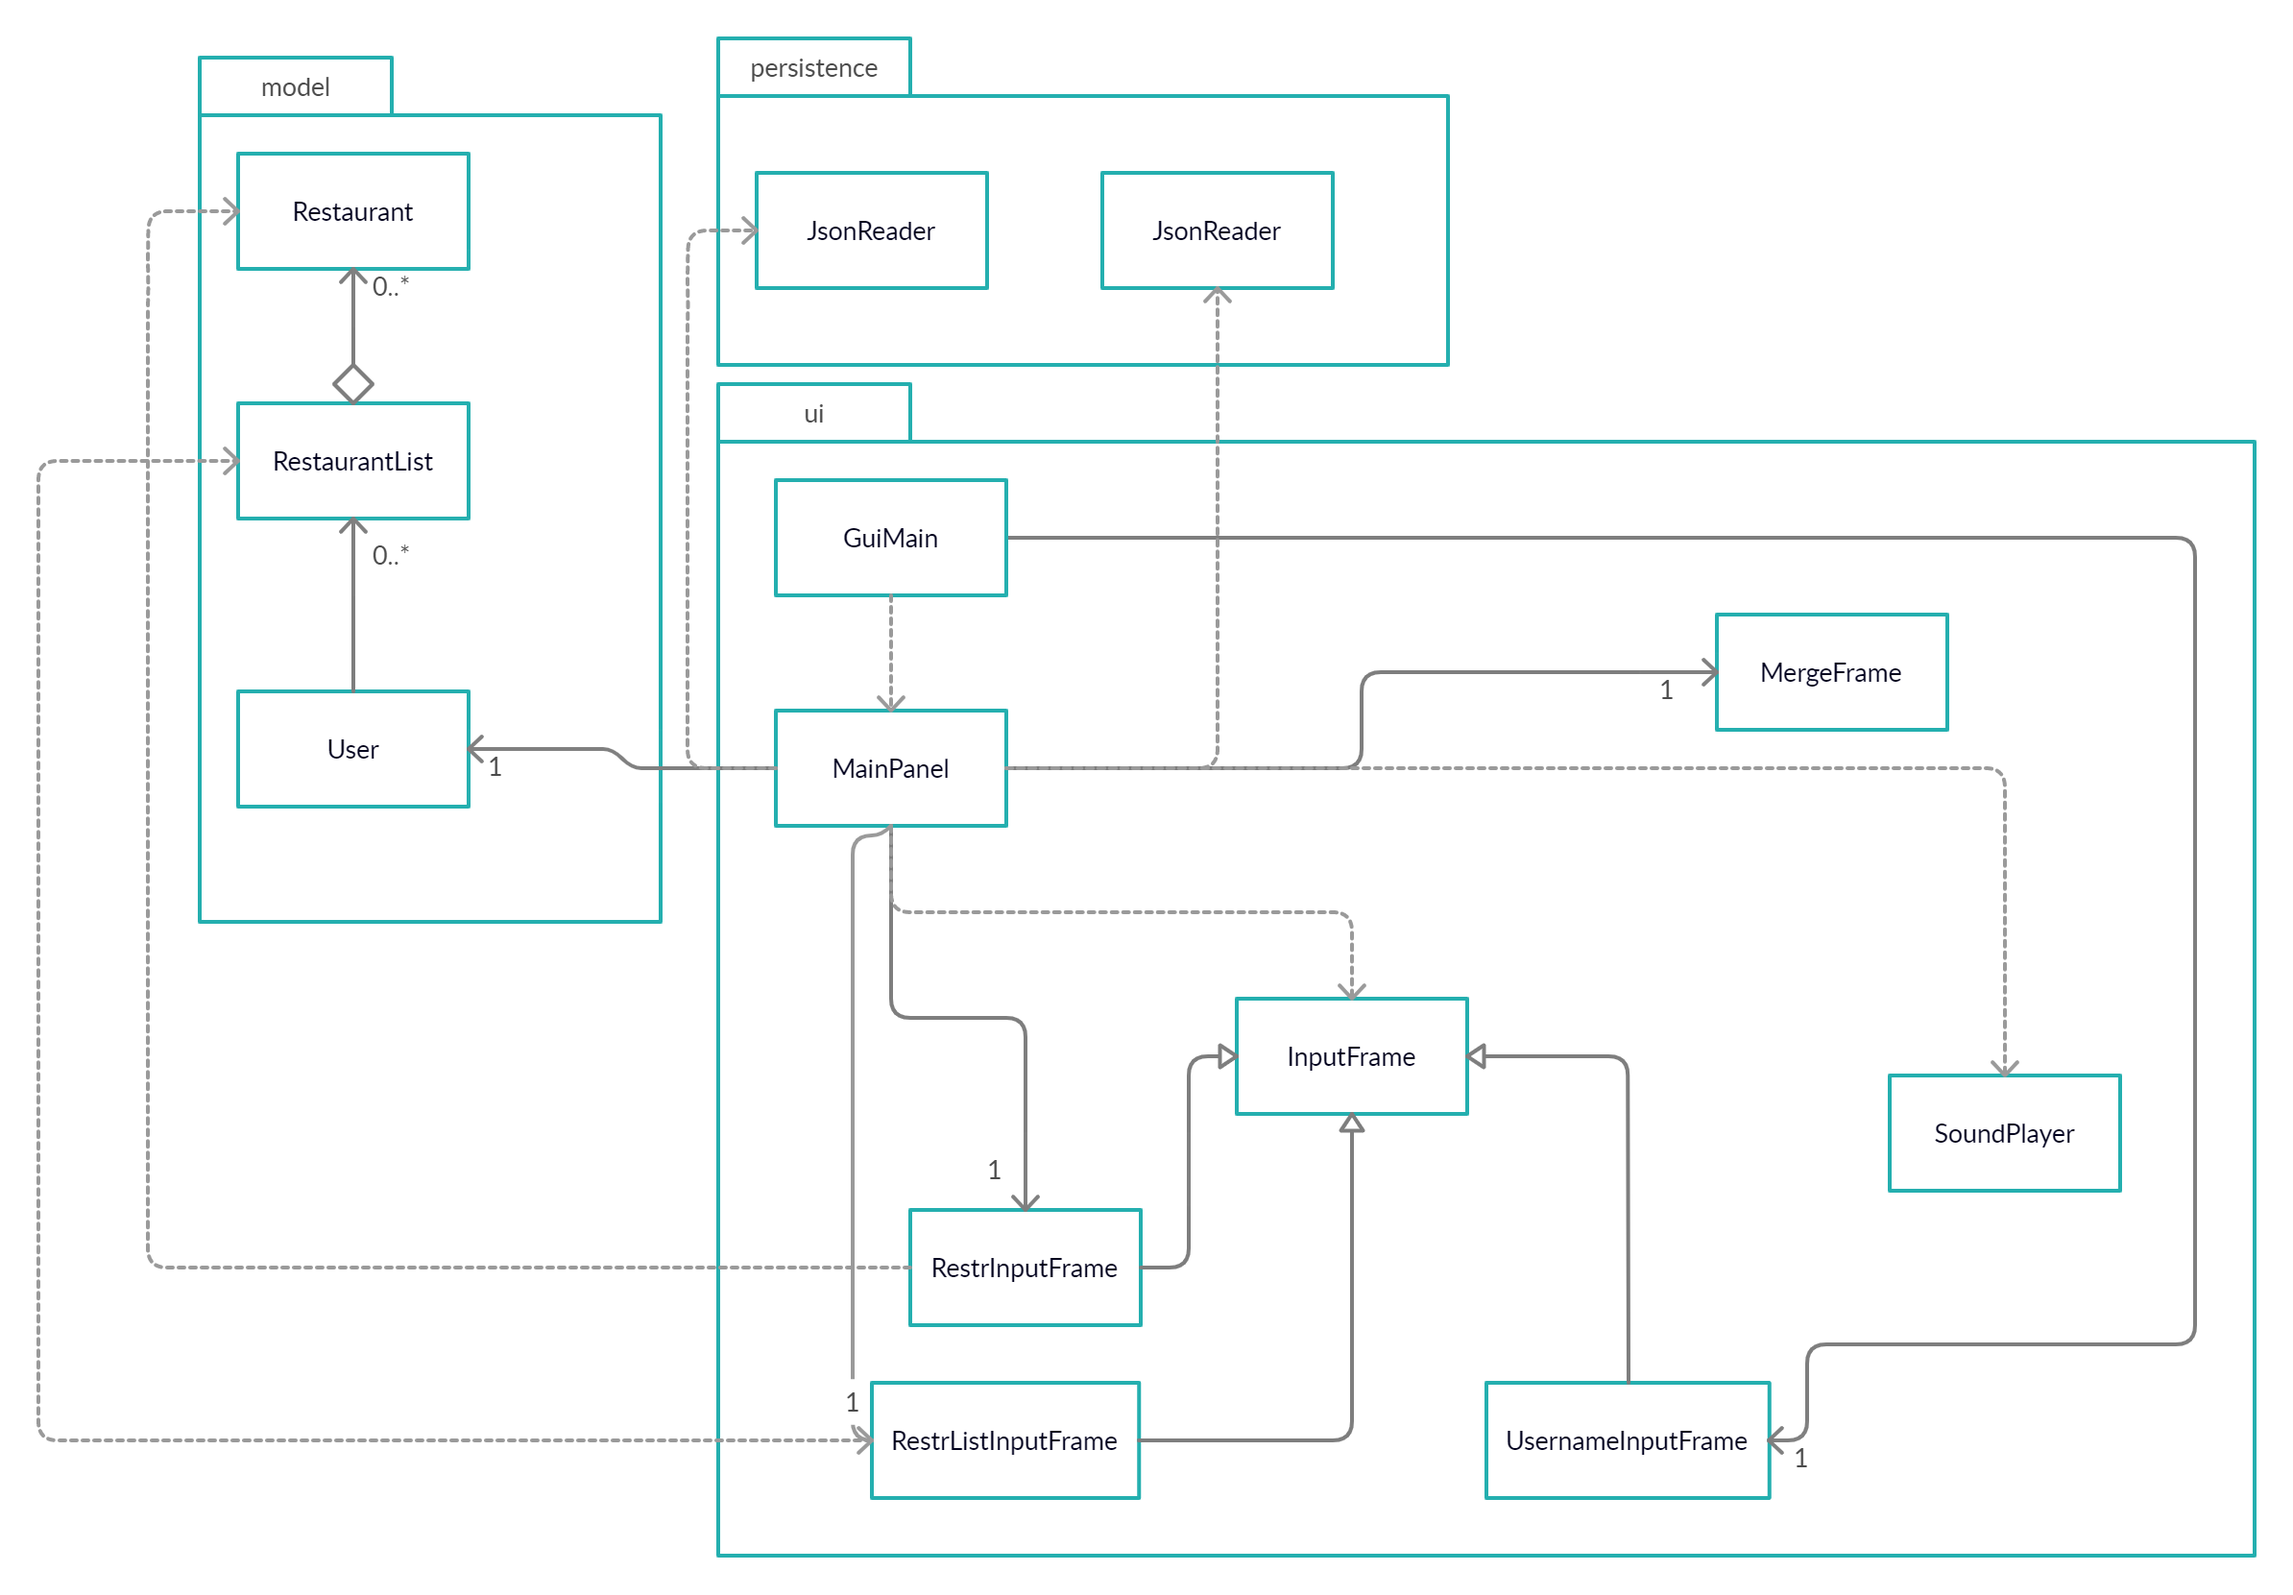
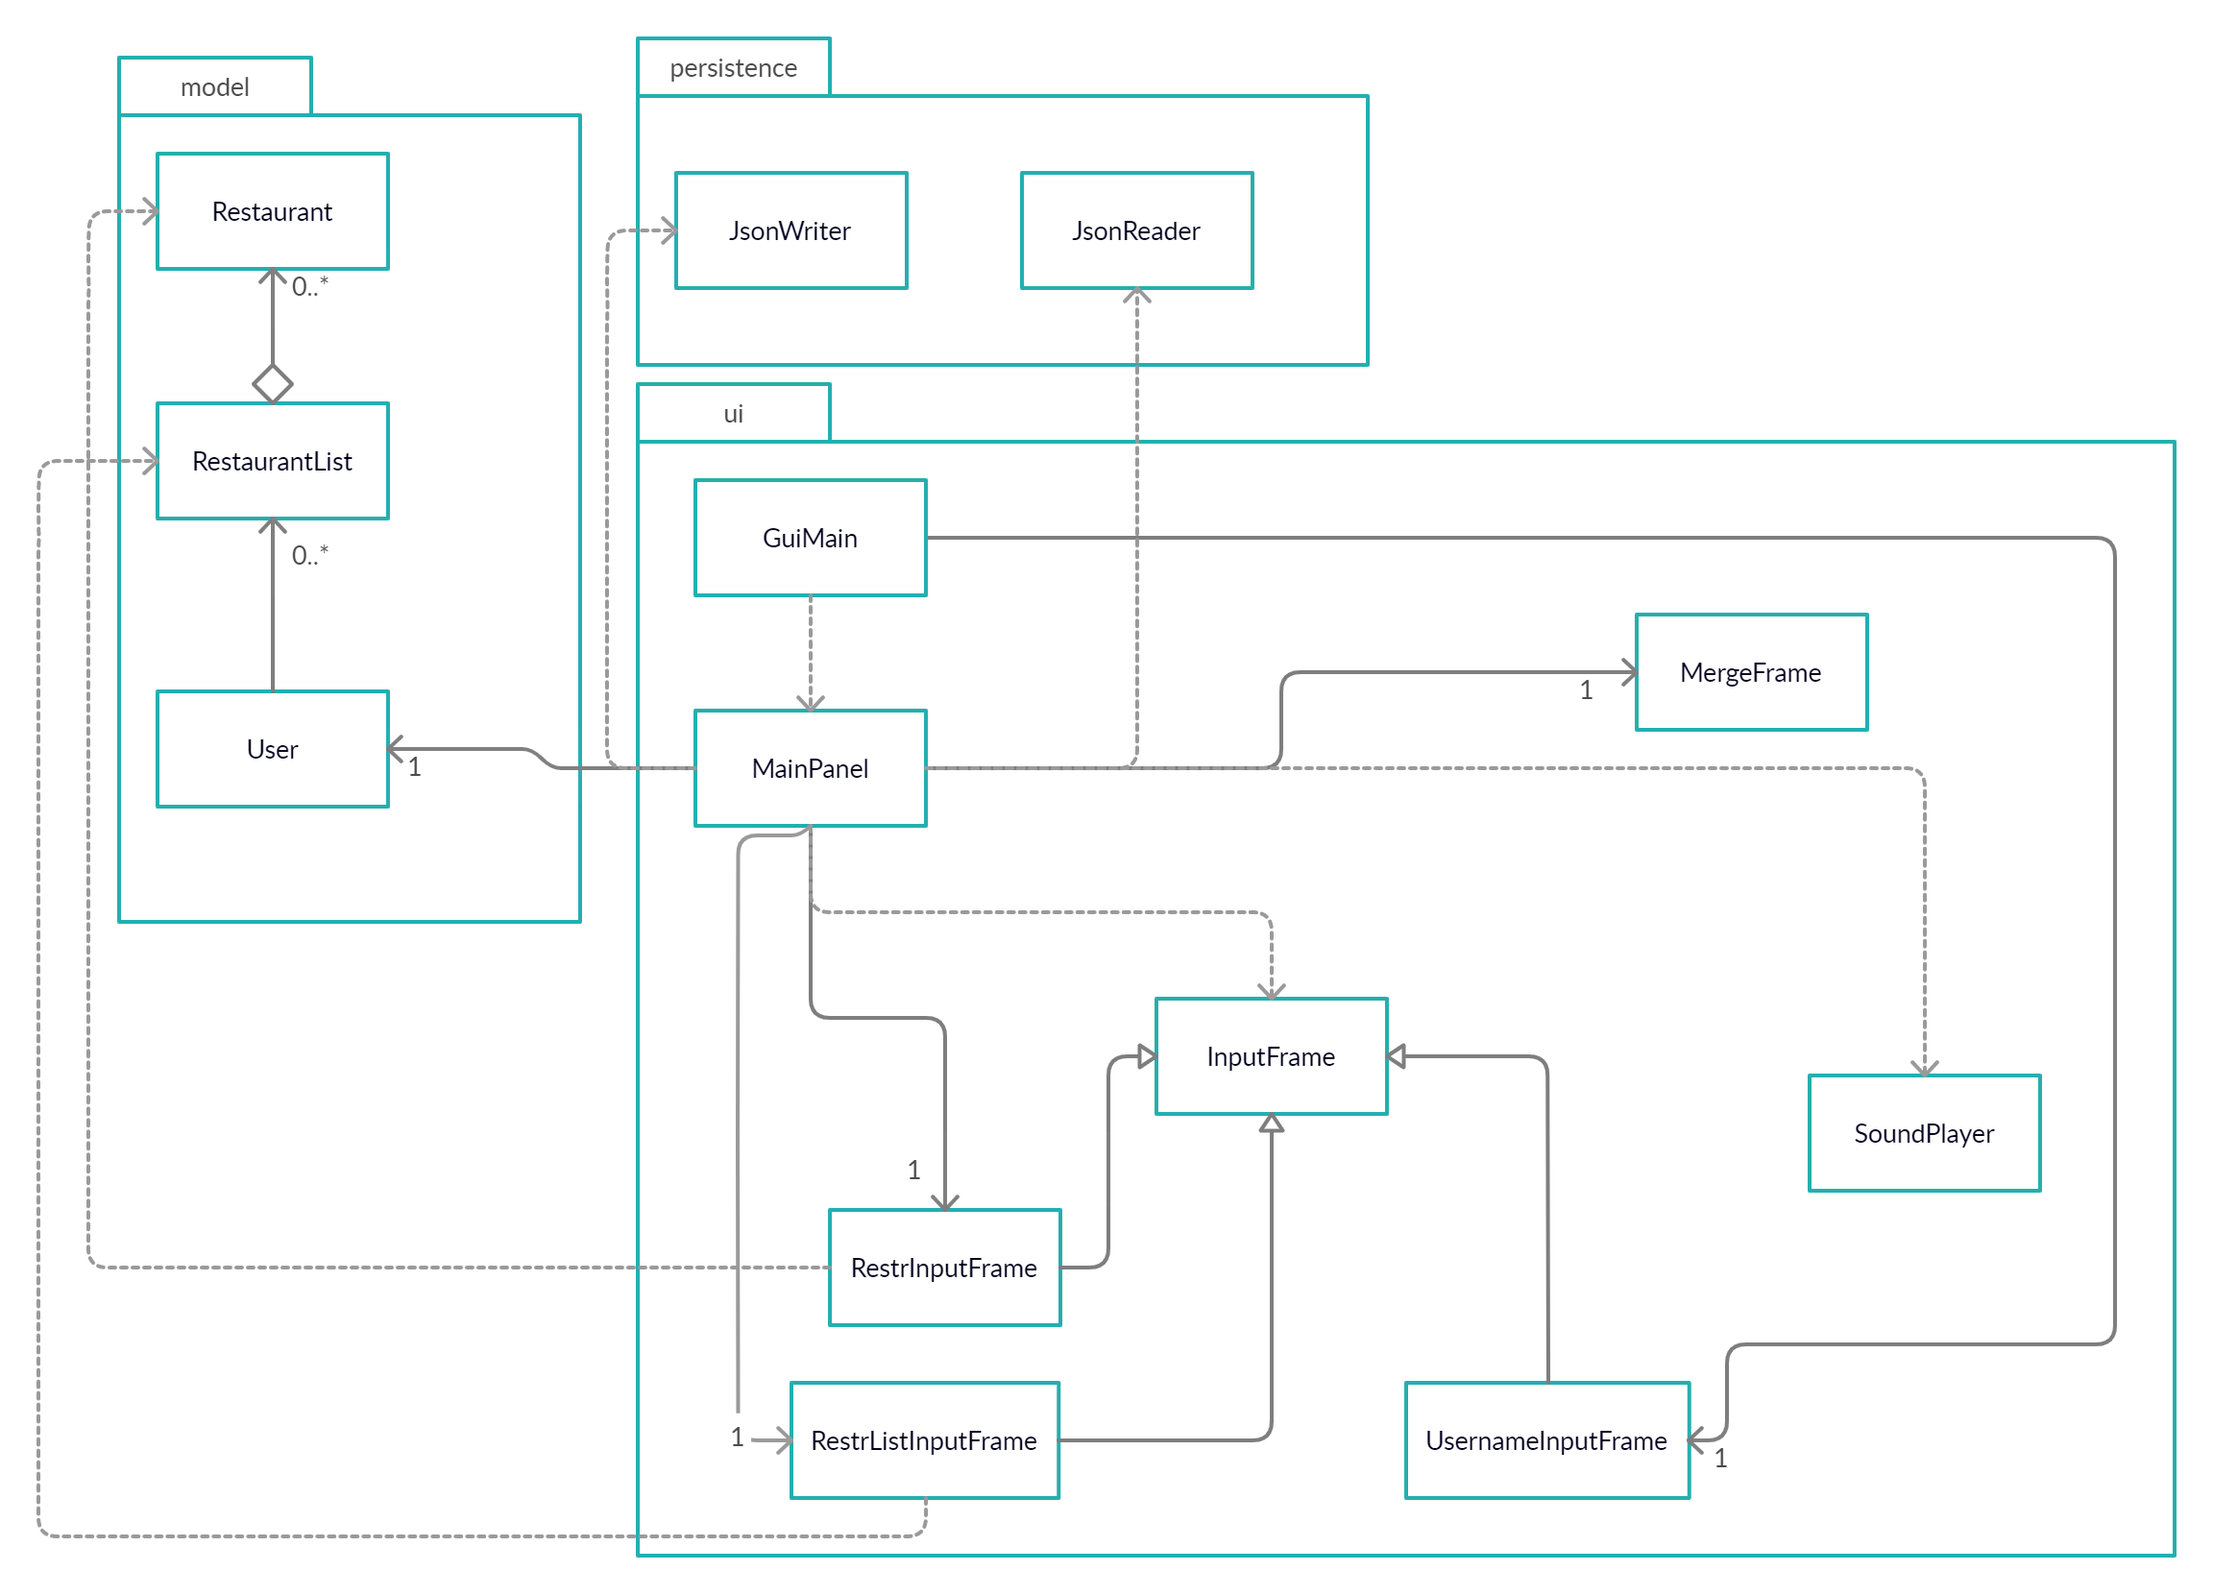
UML Update

diff --git a/Phase 4 Task 3.md b/Phase 4 Task 3.md
@@ -1,0 +1,2 @@
+- `InputFrame` should be an abstract class instead of a concrete one, since only instances of its subclasses are meant to be created
+- `MainPanel` is not very cohesive. To improve, methods related to reading and writing User objects should be extracted as an individual class.
